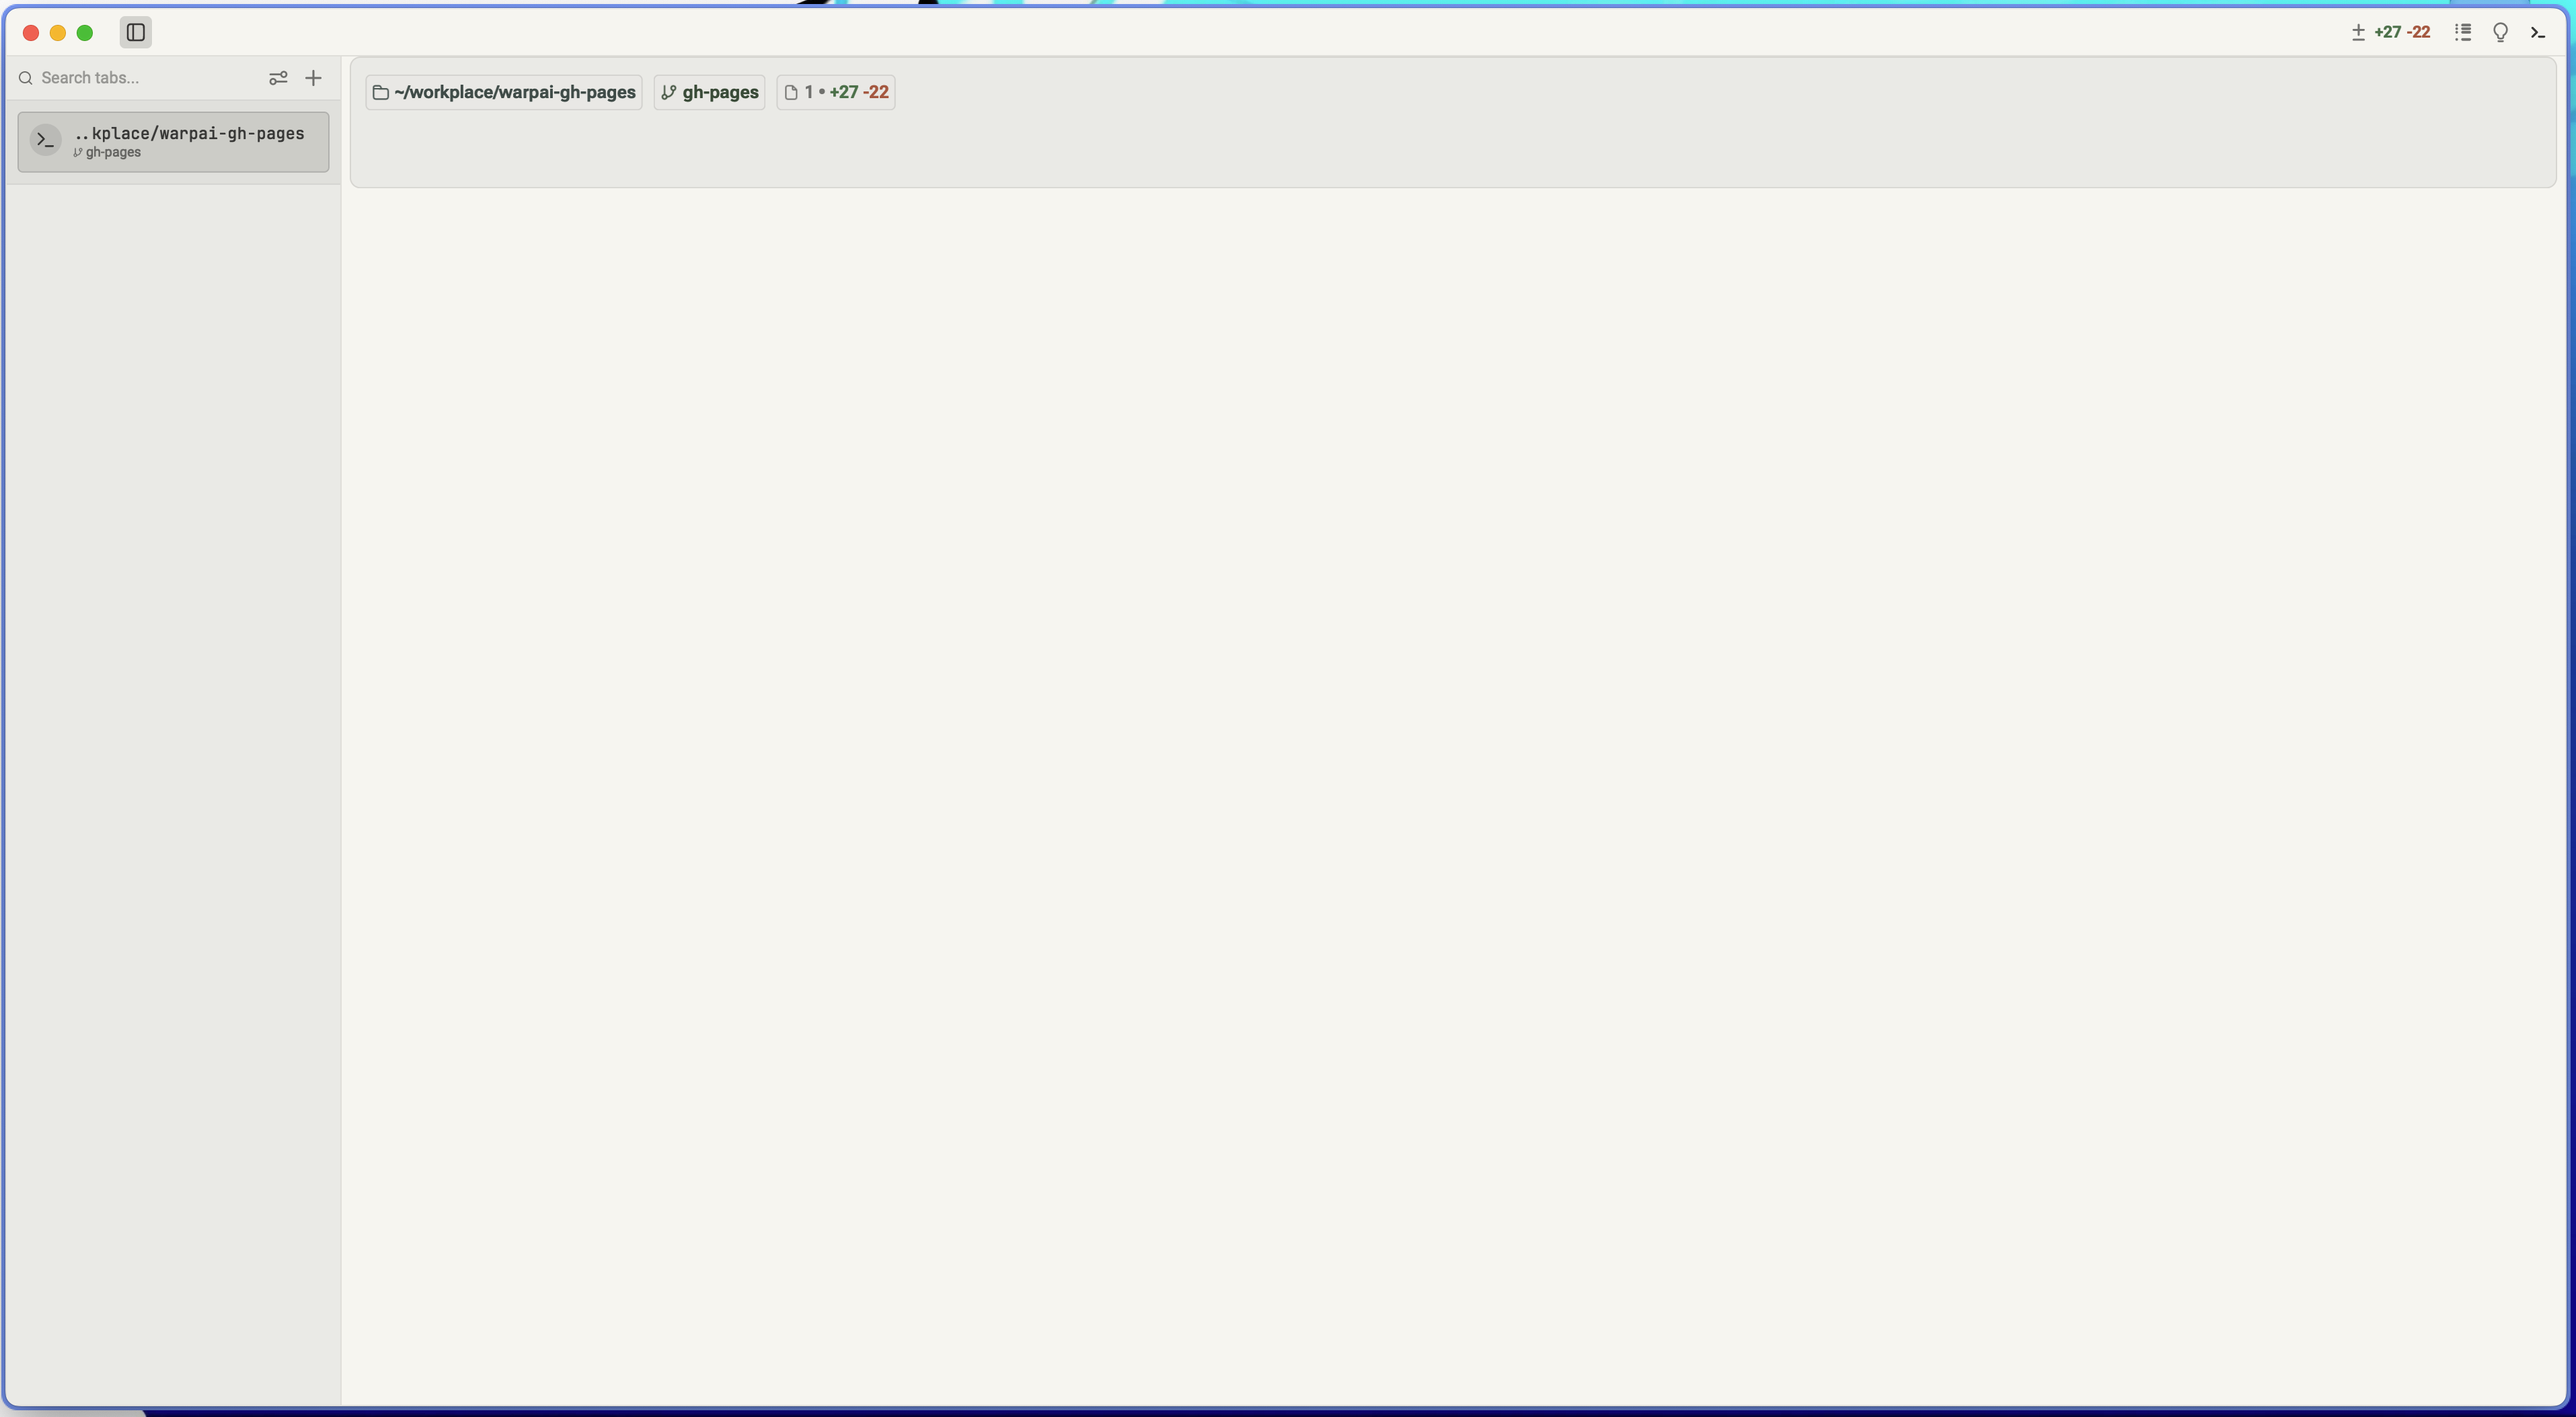
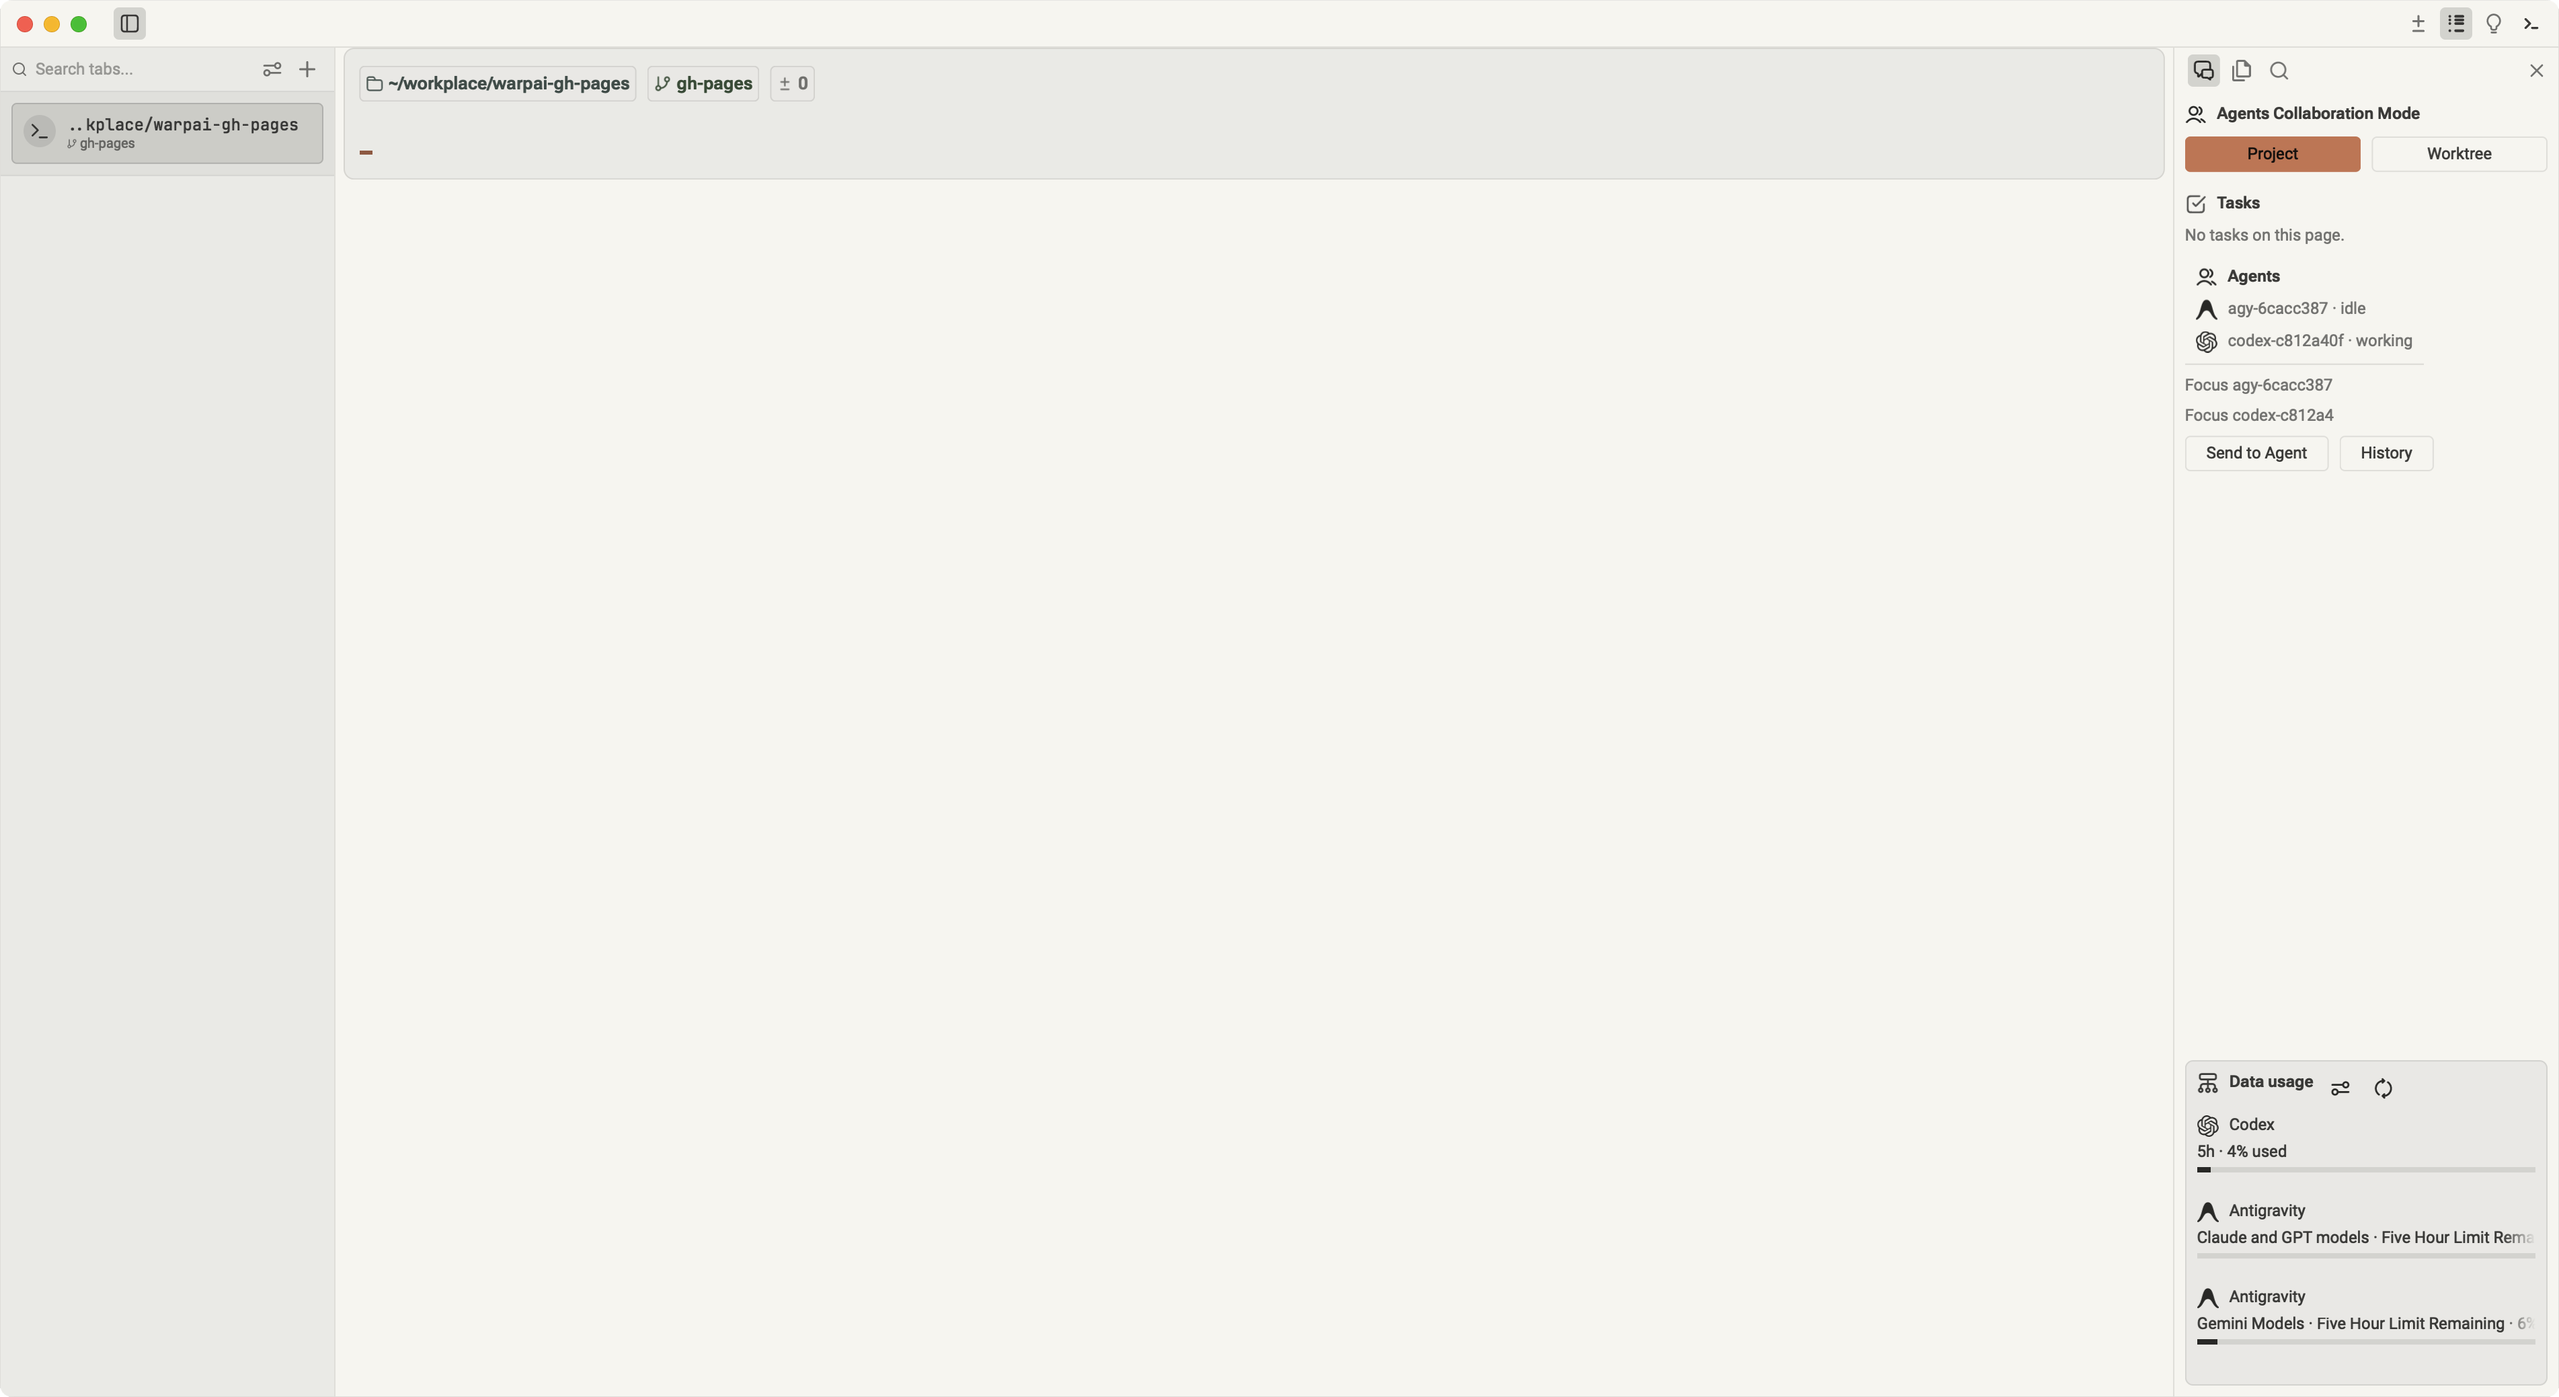
docs: update hero showcase screenshot with clean window bounds and privacy mask, sync task queuing in README

Changed region(s): [[0.0, 0.0, 1.0, 1.0], [0.0, 0.0, 0.124, 0.1232], [0.155, 0.0308, 0.31, 0.0924]]

diff --git a/README.zh-CN.md b/README.zh-CN.md
@@ -49,9 +49,10 @@ Warpai 针对不同业务形态提供两种第一公民协作模式：
 在 1.7.0 版本中，Warpai 全面重构并升级了任务协同逻辑：
 
 1. **随时动态发布任务**：主 Agent 或 Coordinator 可以随时向多个 Agent 动态派发任务，根据项目推进过程灵活扩充，无需在启动前僵化预设全部任务。
-2. **加入动态监督列表**：新发布的任务会自动加入主 Agent 的**监督任务列表（Supervision Task List）**，主 Agent 持续跟踪任务的生命周期流转（`assigned`、`in_progress`、`submitted_for_review`）。
-3. **完成主动退出列表**：被分派的 Agent 在执行完毕并提交测试材料或代码改动后，经过验证或审阅通过，任务主动从监督列表中移出归档。
-4. **守卫收件箱队列**：处于忙碌状态的 Agent 会按到达顺序排队处理外部任务和消息，防止进程意外被抢占打断；超时不会无故自动重跑已终止的工作。
+2. **任务持久化排队与串行执行**：派发任务持久化进入接收方队列（`state: "queued"`），执行方单任务独占串行推进（`running`），杜绝工作区并发写入冲突，并在提交前序任务后通过 `warp_task_start` 依次出队。
+3. **加入动态监督列表**：新发布的任务会自动加入主 Agent 的**监督任务列表（Supervision Task List）**，主 Agent 持续跟踪任务的生命周期流转（`assigned`、`in_progress`、`submitted_for_review`）。
+4. **完成主动退出列表**：被分派的 Agent 在执行完毕并提交测试材料或代码改动后，经过验证或审阅通过，任务主动从监督列表中移出归档。
+5. **守卫收件箱队列**：处于忙碌状态的 Agent 会按到达顺序排队处理外部任务和消息，防止进程意外被抢占打断；超时不会无故自动重跑已终止的工作。
 
 ```mermaid
 flowchart TB

diff --git a/README.md b/README.md
@@ -53,9 +53,10 @@ Warpai provides two first-class modes tailored for different problem domains:
 Warpai v1.7.0 introduces **Dynamic Task Supervision**:
 
 1. **On-the-fly task dispatching**: Any supervising Agent or Coordinator can dynamically publish tasks to multiple agents at any time, adapting flexibly as execution unfolds rather than relying on static, upfront batch plans.
-2. **Dynamic supervision list enrollment**: Newly dispatched tasks immediately join the primary Agent's live **Supervision Task List**. The supervising agent actively tracks task lifecycle states (`assigned`, `in_progress`, `submitted_for_review`).
-3. **Active task retirement**: Once an assigned agent completes its deliverable and submits accepted evidence or code diffs, the task automatically exits the supervision list.
-4. **Guarded inbox delivery**: Busy agents receive incoming tasks and messages in arrival order without unexpected process interruptions. Timeouts never prematurely restart in-flight work.
+2. **Persistent task queuing & sequential execution**: Dispatched tasks enter durable recipient queues (`queued`). Workers execute one task at a time (`running`), preventing dirty working tree contention, and pop queued items sequentially via `warp_task_start` upon submission.
+3. **Dynamic supervision list enrollment**: Newly dispatched tasks immediately join the primary Agent's live **Supervision Task List**. The supervising agent actively tracks task lifecycle states (`assigned`, `in_progress`, `submitted_for_review`).
+4. **Active task retirement**: Once an assigned agent completes its deliverable and submits accepted evidence or code diffs, the task automatically exits the supervision list.
+5. **Guarded inbox delivery**: Busy agents receive incoming tasks and messages in arrival order without unexpected process interruptions. Timeouts never prematurely restart in-flight work.
 
 ```mermaid
 flowchart TB
